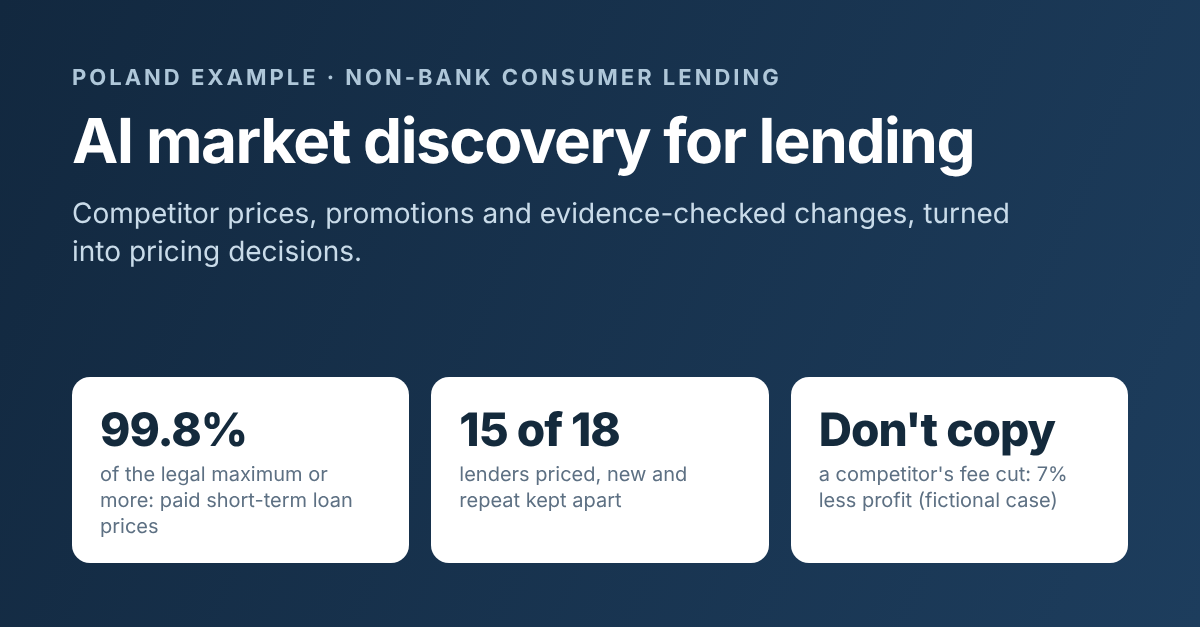
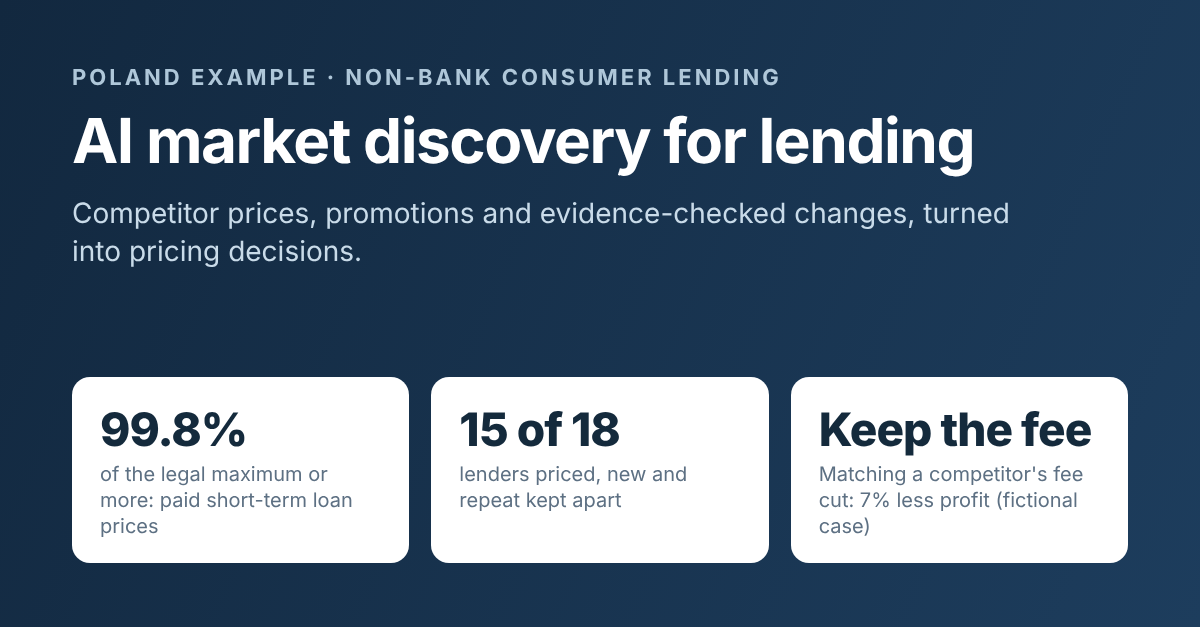
Card and thumbnail: 'Keep the fee' instead of 'Don't copy'
Claude-Session: https://claude.ai/code/session_01QjvGWxRZAh1ptLApZuiphF

Changed region(s): [[0.6783, 0.6364, 0.925, 0.8485]]

diff --git a/docs/index.html b/docs/index.html
@@ -36,7 +36,7 @@ a.card h3{margin:6px 0 4px;font-size:17px}a.card p{margin:0;color:var(--muted);f
 <div class="facts">
 <div class="fact"><div class="v">99.8%</div><div class="k">of the legal maximum, or more: what all 11 paid short-term loans cost (PLN 2,000 / 30 days)</div></div>
 <div class="fact"><div class="v">15 of 18</div><div class="k">lenders with a comparable price; new and repeat customers kept apart</div></div>
-<div class="fact"><div class="v">Don't copy</div><div class="k">Matching a competitor's PLN 150 fee cut brings more customers but 7% less profit. (Fictional case)</div></div>
+<div class="fact"><div class="v">Keep the fee</div><div class="k">Matching a competitor's PLN 150 fee cut: more customers, 7% less profit (fictional case)</div></div>
 </div>
 <div class="cards">
 <a class="card" href="dashboard.html"><span class="tag">Public calculator data</span><h3>Market dashboard &rarr;</h3>

diff --git a/assets/og_thumbnail.html b/assets/og_thumbnail.html
@@ -13,5 +13,5 @@ h1{font-size:62px;line-height:1.08;letter-spacing:-1.5px;margin:18px 0 0;max-wid
 <div class="row">
 <div class="c"><div class="v">99.8%</div><div class="k">of the legal maximum or more: paid short-term loan prices</div></div>
 <div class="c"><div class="v">15 of 18</div><div class="k">lenders priced, new and repeat kept apart</div></div>
-<div class="c"><div class="v">Don't copy</div><div class="k">a competitor's fee cut: 7% less profit (fictional case)</div></div>
+<div class="c"><div class="v">Keep the fee</div><div class="k">Matching a competitor's fee cut: 7% less profit (fictional case)</div></div>
 </div></body></html>

diff --git a/build_site.py b/build_site.py
@@ -65,7 +65,7 @@ a.card h3{{margin:6px 0 4px;font-size:17px}}a.card p{{margin:0;color:var(--muted
 <div class="facts">
 <div class="fact"><div class="v">99.8%</div><div class="k">of the legal maximum, or more: what all 11 paid short-term loans cost (PLN 2,000 / 30 days)</div></div>
 <div class="fact"><div class="v">15 of 18</div><div class="k">lenders with a comparable price; new and repeat customers kept apart</div></div>
-<div class="fact"><div class="v">Don't copy</div><div class="k">Matching a competitor's PLN {e(fee_cut)} fee cut brings more customers but {e(less)}% less profit. (Fictional case)</div></div>
+<div class="fact"><div class="v">Keep the fee</div><div class="k">Matching a competitor's PLN {e(fee_cut)} fee cut: more customers, {e(less)}% less profit (fictional case)</div></div>
 </div>
 <div class="cards">
 <a class="card" href="dashboard.html"><span class="tag">Public calculator data</span><h3>Market dashboard &rarr;</h3>

diff --git a/tests/test_site.py b/tests/test_site.py
@@ -19,7 +19,7 @@ class SiteTests(unittest.TestCase):
 
     def test_landing_links_and_labels(self):
         page = (SITE / "index.html").read_text(encoding="utf-8")
-        for needed in ('href="dashboard.html"', 'href="decision_case.html"', "Synthetic", "not approved offers", "Don't copy"):
+        for needed in ('href="dashboard.html"', 'href="decision_case.html"', "Synthetic", "not approved offers", "Keep the fee"):
             self.assertIn(needed, page)
         self.assertNotIn("—", page)
 
